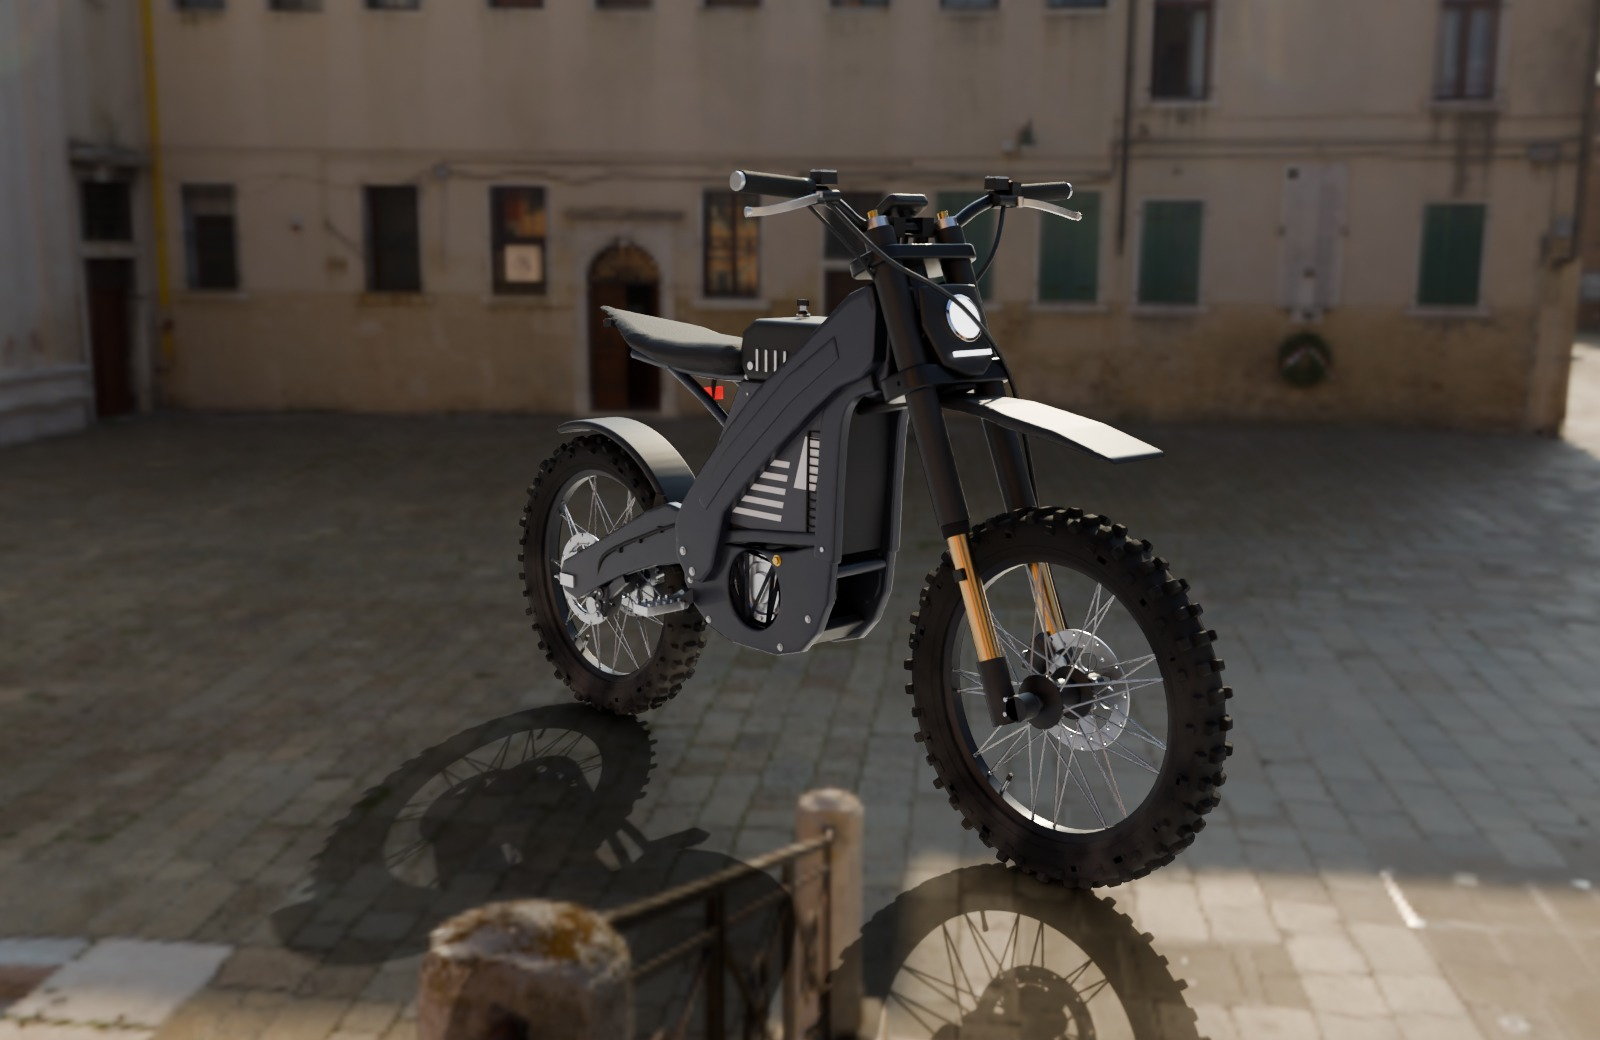
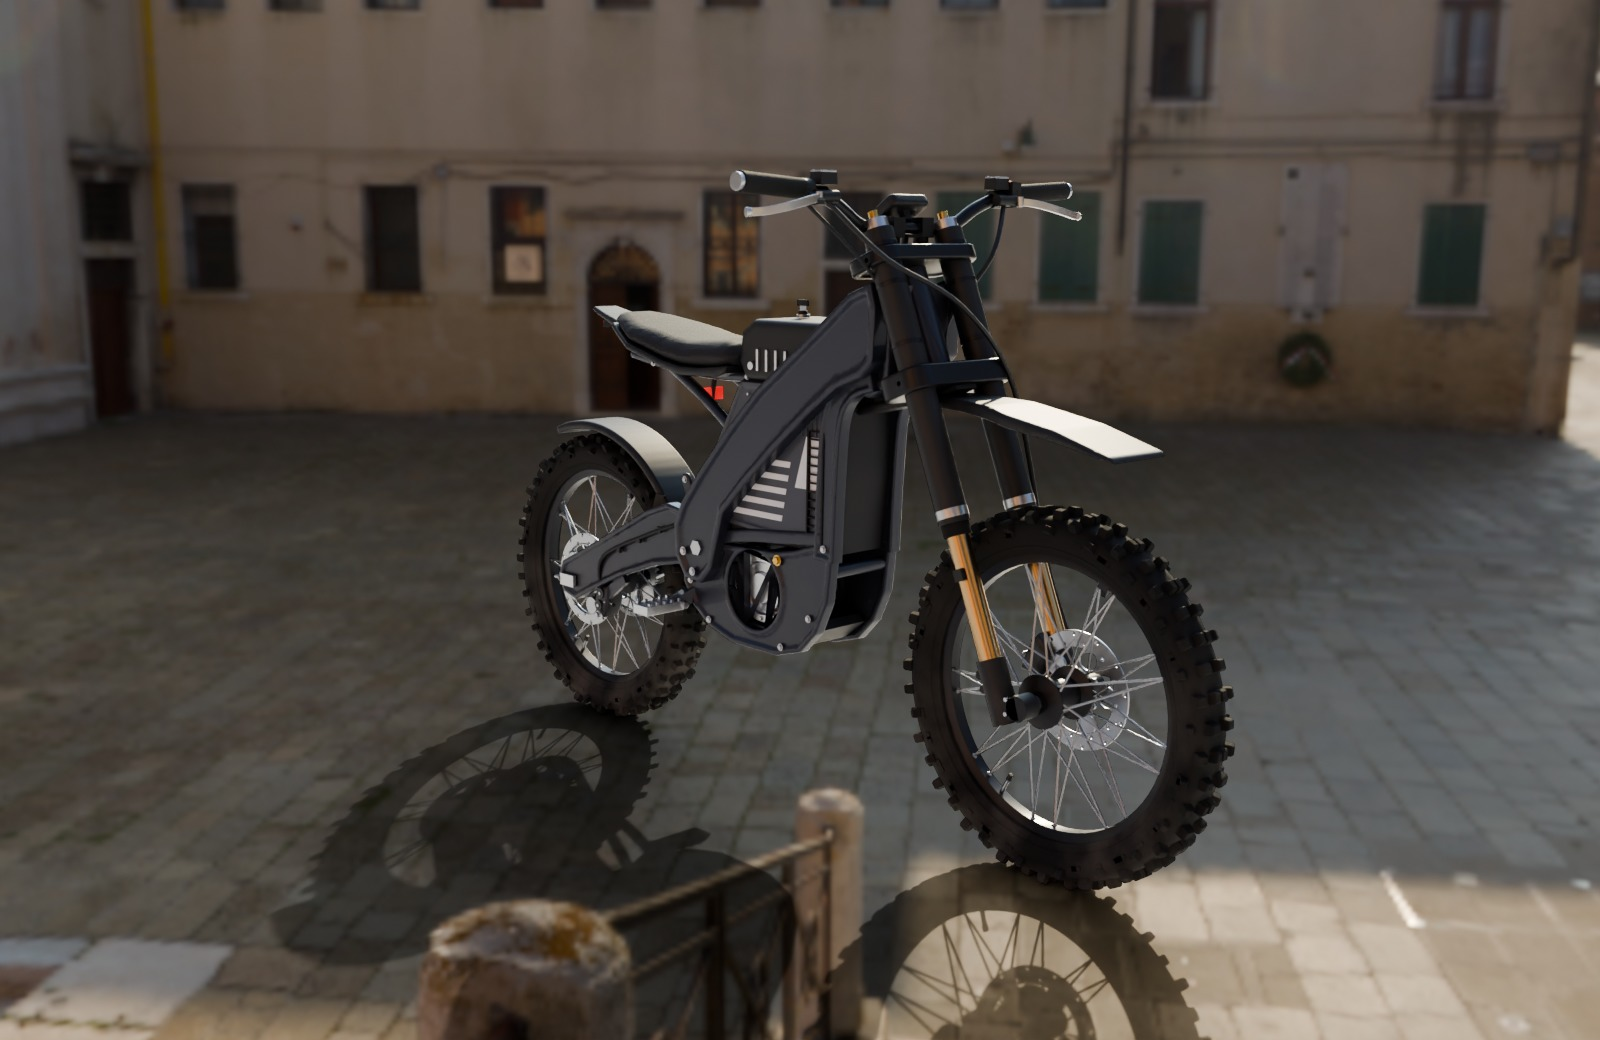
Add SurRonBlack: the owner's blacked-out Light Bee X
- new surron_black.py: black frame/covers/wheels/spokes, bronze levers,
  pegs, shock and chain, full-length ribbed battery covers, no graphics
- Sur-Ron geometry gains build options (graphics, ribbed covers) and
  lever/peg/shock material keys
- kick stand is now its own part (group Kickstand) pivoting at its hinge
- renders: park the bike on the kick stand with the matching lean, owner
  camera matching the reference photo, per-bike HDRI (dirt quarry)
- navy Sur-Ron renders without the headlight

Claude-Session: https://claude.ai/code/session_01TcZ8ov7SxXXTRenxyjV1hL

diff --git a/blender/surron.py b/blender/surron.py
@@ -20,6 +20,9 @@ NAME = "SurRon"
 REF = dict(size=720, scale=0.00283, center_px=(360, 360), mid_x=359, ground=580,
            camera_side=+1)  # photo shows the bike's left (+X) side
 
+# Build options; variants (e.g. surron_black.py) change these before building.
+STYLE = dict(graphics=True, full_ribs=False)
+
 S = REF["scale"]
 GROUND = REF["ground"]
 MIDX = REF["mid_x"]
@@ -87,7 +90,9 @@ def materials(B):
     B.material("alu", (0.70, 0.71, 0.73), metal=1.0, rough=0.3, aniso=0.5, bump=("brushed", 60, 0.02))
     B.material("chrome", (0.9, 0.9, 0.92), metal=1.0, rough=0.08)
     B.material("bronze", (0.60, 0.40, 0.20), metal=1.0, rough=0.22)
-    B.material("blue", (0.16, 0.13, 0.62), metal=0.9, rough=0.28)
+    B.material("shock", (0.16, 0.13, 0.62), metal=0.9, rough=0.28)
+    B.material("lever", (0.70, 0.71, 0.73), metal=1.0, rough=0.3)
+    B.material("peg", (0.70, 0.71, 0.73), metal=1.0, rough=0.35, dirt=0.2)
     B.material("spring", (0.03, 0.03, 0.033), metal=0.3, rough=0.5, dirt=0.15)
     B.material("chain", (0.33, 0.33, 0.35), metal=1.0, rough=0.4, dirt=0.35)
     B.material("caliper", (0.06, 0.06, 0.065), metal=0.6, rough=0.35, dirt=0.2)
@@ -231,11 +236,11 @@ def build_steering(B):
         for dx in (-0.013, 0.013):
             K.bolt(B.bm(G, "steel"), res + Vector((dx, 0.009, 0.0125)), (0, 0, 1), r=0.0022, h=0.0015, washer=False)
         piv = mc + Vector((s * 0.03, -0.032, -0.004))
-        K.bm_cyl(B.bm(G, "alu"), K.axis_matrix(piv, (0, 0, 1)), 0.0065, -0.009, 0.009, 10)
+        K.bm_cyl(B.bm(G, "lever"), K.axis_matrix(piv, (0, 0, 1)), 0.0065, -0.009, 0.009, 10)
         blade = K.catmull([piv, piv + Vector((s * 0.03, -0.014, -0.004)), piv + Vector((s * 0.08, -0.022, -0.014)),
                            piv + Vector((s * 0.125, -0.018, -0.022)), piv + Vector((s * 0.15, -0.01, -0.024))], 5)
-        K.bm_sweep_rect(B.bm(G, "alu"), blade, 0.013, 0.0065, up=(0, 0, 1))
-        K.bm_sweep(B.bm(G, "alu"), [blade[-1], blade[-1] + (blade[-1] - blade[-2]).normalized() * 0.008], 0.0075,
+        K.bm_sweep_rect(B.bm(G, "lever"), blade, 0.013, 0.0065, up=(0, 0, 1))
+        K.bm_sweep(B.bm(G, "lever"), [blade[-1], blade[-1] + (blade[-1] - blade[-2]).normalized() * 0.008], 0.0075,
                    segs=10)
         for dz in (-0.009, 0.009):  # clamp screws
             K.bolt(B.bm(G, "steel"), mc + Vector((0, 0.0155, dz)), (0, 1, 0), r=0.0025, h=0.002, washer=False)
@@ -356,11 +361,23 @@ def build_body(B):
     B.inflate(G, "battery", [L(batt)], 0.016, 0.075, 0.015)
     cover = [(300, 303), (386, 303), (402, 331), (426, 372), (431, 398), (306, 406), (301, 360)]
     B.inflate_pair(G, "panel", [L(cover)], 0.007, 0.005, 0.0025, 0.077, pocket=(0.008, 0.003, 0.004))
-    for s_ in (1, -1):  # moulded vertical ribs on the upper cover
-        for k in range(7):
-            x = 312 + k * 4.2
-            K.box_between(B.bm(G, "panel"), P3(x, 312, s_ * 0.0795), P3(x + 1.0, 334, s_ * 0.0795), 0.003, 0.0035,
-                          up=(1, 0, 0))
+    if STYLE["full_ribs"]:
+        # moulded vertical ribs across the whole cover (blacked-out version)
+        inner = [(306, 309), (382, 309), (397, 334), (420, 372), (424, 396), (311, 400), (307, 360)]
+        for k in range(17):
+            x = 310 + k * 6.6
+            seg = K.clip_line_to_polygon((x, 300), (x + 3, 412), inner, 160)
+            if seg:
+                a, b = seg
+                for s_ in (1, -1):
+                    K.box_between(B.bm(G, "panel"), P3(a[0], a[1], s_ * 0.0795), P3(b[0], b[1], s_ * 0.0795),
+                                  0.003, 0.004, up=(1, 0, 0))
+    else:
+        for s_ in (1, -1):  # moulded vertical ribs on the upper cover
+            for k in range(7):
+                x = 312 + k * 4.2
+                K.box_between(B.bm(G, "panel"), P3(x, 312, s_ * 0.0795), P3(x + 1.0, 334, s_ * 0.0795), 0.003,
+                              0.0035, up=(1, 0, 0))
     gfx = [[(305, 334), (322, 334), (333, 368), (313, 368)]]
     for k, y0 in enumerate([352, 361, 370, 379, 388]):
         x0 = 337 + k * 2
@@ -368,7 +385,7 @@ def build_body(B):
         gfx.append([(x0, y0), (x1, y0), (x1 + 3, y0 + 4), (x0 + 1, y0 + 4)])
     gfx.append([(392, 360), (418, 384), (414, 388), (388, 364)])
     gfx.append([(388, 372), (420, 398), (414, 401), (384, 376)])
-    for g in gfx:
+    for g in (gfx if STYLE["graphics"] else []):
         B.slab_pair(G, "graphic", [L(g)], 0.0008, 0.0794)
 
     # top cover over the controller
@@ -423,14 +440,14 @@ def build_body(B):
         perp = -perp
     K.bm_cyl(B.bm(G, "black"), K.axis_matrix(st, (1, 0, 0)), 0.013, -0.016, 0.016, 14)
     K.bm_tube(B.bm(G, "black"), st + d * 0.04, st + d * 0.48, 0.021, segs=18)
-    K.bm_tube(B.bm(G, "blue"), st + d * 0.03 + perp * 0.036, st + d * 0.40 + perp * 0.036, 0.016, segs=16)
-    K.box_between(B.bm(G, "blue"), st + d * 0.08, st + d * 0.08 + perp * 0.036, 0.018, 0.02, up=(1, 0, 0))
-    K.bm_tube(B.bm(G, "blue"), st + d * 0.24, st + d * 0.27, 0.036, segs=20)
+    K.bm_tube(B.bm(G, "shock"), st + d * 0.03 + perp * 0.036, st + d * 0.40 + perp * 0.036, 0.016, segs=16)
+    K.box_between(B.bm(G, "shock"), st + d * 0.08, st + d * 0.08 + perp * 0.036, 0.018, 0.02, up=(1, 0, 0))
+    K.bm_tube(B.bm(G, "shock"), st + d * 0.24, st + d * 0.27, 0.036, segs=20)
     K.bm_tube(B.bm(G, "chrome"), st + d * 0.46, st + d * 0.94, 0.0085, segs=12)
     K.bm_sweep(B.bm(G, "spring"), K.coil_points(st + d * 0.27, sb - d * 0.11, 0.031, 7.5), 0.0048, segs=8)
     K.bm_tube(B.bm(G, "black"), sb - d * 0.12, sb - d * 0.09, 0.034, segs=20)
     K.bm_cyl(B.bm(G, "black"), K.axis_matrix(sb, (1, 0, 0)), 0.012, -0.015, 0.015, 14)
-    K.bm_tube(B.bm(G, "blue"), st + d * 0.205, st + d * 0.235, 0.034, segs=20)       # lock ring
+    K.bm_tube(B.bm(G, "shock"), st + d * 0.205, st + d * 0.235, 0.034, segs=20)       # lock ring
     K.bm_tube(B.bm(G, "alu"), st + d * 0.40 + perp * 0.036, st + d * 0.43 + perp * 0.036, 0.012, segs=12)
     K.bm_tube(B.bm(G, "rubber"), st + d * 0.50, st + d * 0.56, 0.013, segs=12)       # bump stop
     K.box_between(B.bm(G, "black"), sb - d * 0.09, sb, 0.034, 0.024, up=(0, 1, 0))  # clevis
@@ -486,10 +503,10 @@ def build_body(B):
     # foot pegs with teeth
     for s in (1, -1):
         c = P3(447, 463, s * 0.15)
-        K.bm_box(B.bm(G, "alu"), Matrix.Translation(c), 0.09, 0.045, 0.018)
+        K.bm_box(B.bm(G, "peg"), Matrix.Translation(c), 0.09, 0.045, 0.018)
         for k in range(5):
             for dy in (-0.019, 0.019):
-                K.bm_box(B.bm(G, "alu"), Matrix.Translation(c + Vector((s * (-0.036 + 0.018 * k), dy, 0.011))),
+                K.bm_box(B.bm(G, "peg"), Matrix.Translation(c + Vector((s * (-0.036 + 0.018 * k), dy, 0.011))),
                          0.006, 0.006, 0.008)
         K.box_between(B.bm(G, "frame"), P3(441, 455, s * 0.07), c - Vector((s * 0.04, 0, 0)), 0.03, 0.026)
         hinge = c - Vector((s * 0.047, 0, 0))
@@ -497,10 +514,18 @@ def build_body(B):
         K.bm_sweep(B.bm(G, "spring"), K.coil_points(hinge + Vector((0, -0.02, 0)), hinge + Vector((0, 0.02, 0)),
                                                     0.009, 4, 10), 0.0015, segs=5)
 
-    # kick stand (left side, folded)
-    K.bm_sweep(B.bm(G, "black"), K.catmull([P3(440, 457, 0.095), P3(478, 463, 0.11), P3(515, 468, 0.116)], 4),
-               0.0085, segs=8)
-    K.bm_box(B.bm(G, "black"), Matrix.Translation(P3(517, 469, 0.116)), 0.03, 0.02, 0.008)
+    # kick stand (left side): its own part pivoting at the hinge so it can swing down
+    KG = "Kickstand"
+    hinge = P3(442, 462, 0.10)
+    B.pivot(KG, hinge)
+    K.bm_cyl(B.bm(G, "frame"), K.axis_matrix(hinge - Vector((0.012, 0, 0)), (1, 0, 0)), 0.014, -0.006, 0.006, 16)
+    K.bm_cyl(B.bm(KG, "black"), K.axis_matrix(hinge, (1, 0, 0)), 0.012, -0.008, 0.008, 16)
+    leg = K.catmull([hinge, P3(470, 466, 0.106), P3(510, 470, 0.114), P3(549, 472, 0.12)], 4)
+    K.bm_sweep(B.bm(KG, "black"), leg, 0.0095, segs=10, radii=[K.lerp(0.0105, 0.008, i / (len(leg) - 1))
+                                                               for i in range(len(leg))])
+    K.bm_box(B.bm(KG, "black"), K.axis_matrix(P3(551, 472, 0.12), (0, 0, -1), hint=(0, 1, 0)), 0.034, 0.024, 0.008)
+    K.bm_sweep(B.bm(KG, "spring"), K.coil_points(hinge + Vector((0.012, 0.02, -0.004)), P3(470, 463, 0.09), 0.005,
+                                                  6, 8), 0.0013, segs=5)
     return rp_front
 
 
@@ -526,10 +551,11 @@ def build_swingarm(B, rp_front, rp_rear):
         K.bm_box(B.bm(G, "alu"), Matrix.Translation(REAR_AXLE + Vector((s * 0.096, 0.02, 0))), 0.008, 0.05, 0.026)
     B.slab_pair(G, "frame", [K.stadium2d(P(452, 400), P(452, 414), 0.016)], 0.006, 0.022)
     # stripe graphics on the left arm
-    for k in range(3):
+    for k in (range(3) if STYLE["graphics"] else []):
         B.slab(G, "graphic", [L(K.offset_polyline2d([(447, 404 + 5 * k), (505, 429 + 5 * k)], 1.8))],
                0.0008, x=0.0952)
-    B.slab(G, "graphic", [L([(528, 446), (560, 458), (557, 466), (525, 454)])], 0.0008, x=0.0952)
+    if STYLE["graphics"]:
+        B.slab(G, "graphic", [L([(528, 446), (560, 458), (557, 466), (525, 454)])], 0.0008, x=0.0952)
     # chain slider
     B.inflate(G, "black", [L([(440, 398), (470, 397), (500, 410), (496, 414), (468, 403), (440, 404)])],
               0.006, 0.015, 0.005, c=0.08)
@@ -568,7 +594,9 @@ def build_swingarm(B, rp_front, rp_rear):
                   pitch=0.0127)
 
 
-def build(B):
+def build(B, style=None):
+    if style:
+        STYLE.update(style)
     materials(B)
     rp_rear = build_wheels(B)
     build_steering(B)

diff --git a/blender/build.py b/blender/build.py
@@ -11,6 +11,7 @@ or with the `bpy` Python module:
 Outputs go to ../models/ and ../renders/ relative to this file.
 """
 
+import math
 import os
 import sys
 
@@ -25,7 +26,7 @@ import importlib  # noqa: E402
 
 import bikekit as K  # noqa: E402
 
-BIKES = ["surron", "varg"]
+BIKES = ["surron", "surron_black", "varg"]
 HDRI_ROT = 200.0   # backdrop rotation that puts the sunny square behind the hero camera
 
 
@@ -60,18 +61,22 @@ def build_one(name, opts):
                  glb_path=os.path.join(ROOT, "models", f"{mod.NAME}.glb"))
 
     # photographic scene: HDR backdrop + shadow catcher (kept in the .blend for re-rendering)
-    hdri = os.path.join(HERE, "assets", "san_giuseppe_bridge_2k.hdr")
+    scene = getattr(mod, "SCENE", {})
+    hdri = os.path.join(HERE, "assets", scene.get("hdri", "san_giuseppe_bridge_2k.hdr"))
+    hdri_rot = scene.get("rot", HDRI_ROT)
     if os.path.exists(hdri):
-        K.setup_hdri(hdri, HDRI_ROT, 1.0, samples=opts["samples"])
+        K.setup_hdri(hdri, hdri_rot, 1.0, samples=opts["samples"])
     else:
         K.setup_outdoor(samples=opts["samples"])
-    k = 1.0 if mod.NAME == "SurRon" else 1.12   # bigger bike -> step back a little
+    k = 1.12 if mod.NAME == "Varg" else 1.0   # bigger bike -> step back a little
     tgt = Vector((0, 0.0, 0.52 * k))
     side = mod.REF["camera_side"]
     cams = {
         "hero": K.camera("Cam_Hero", (2.35 * k, -2.05 * k, 0.9), tgt, lens=40, fstop=4.0),
         "front34": K.camera("Cam_Front34", (-1.95 * k, -2.15 * k, 1.05), tgt, lens=35, fstop=4.0),
         "rear34": K.camera("Cam_Rear34", (2.25 * k, 2.5 * k, 0.78), tgt, lens=38, fstop=4.0),
+        "owner": K.camera("Cam_Owner", (-0.95 * k, -1.45 * k, 0.95), Vector((0.0, 0.05, 0.5 * k)), lens=24,
+                          fstop=5.6),
         "detail": K.camera("Cam_Detail", (1.25 * k, -0.25 * k, 0.75), Vector((0, 0.05, 0.5 * k)), lens=40,
                            fstop=2.8),
         "side": K.camera("Cam_Side", (7.5 * k * side, 0.0, 0.62), (0, 0.0, 0.55 * k), lens=85),
@@ -98,12 +103,15 @@ def build_one(name, opts):
                                     compress=True)
 
     if opts["render"]:
+        lean = pose_parked(B.objects)
+        if lean:
+            print(f"parked on the kick stand, leaning {lean:.1f} deg")
         outs = []
         if not opts["only_check"]:
             for key, res in [("hero", (1600, 1040)), ("side", (1600, 1040)), ("front34", (1600, 1040)),
-                             ("rear34", (1600, 1040)), ("detail", (1600, 1040))]:
+                             ("rear34", (1600, 1040)), ("detail", (1600, 1040)), ("owner", (1200, 1600))]:
                 p = os.path.join(ROOT, "renders", f"{mod.NAME}_{key}.jpg")
-                K.aim_hdri(cams[key], HDRI_ROT)
+                K.aim_hdri(cams[key], hdri_rot)
                 K.render(cams[key], p, res)
                 outs.append(p)
         if opts["check"]:
@@ -182,6 +190,29 @@ def write_roblox_colors():
     os.makedirs(os.path.join(ROOT, "roblox"), exist_ok=True)
     with open(os.path.join(ROOT, "roblox", "BikeColors.lua"), "w") as f:
         f.write("\n".join(lines))
+
+
+def pose_parked(objs, deploy=(-100.0, -25.0, 0.0), max_lean=14.0):
+    """For renders only: swing the kick stand down and lean the bike onto it
+    (the saved .blend / FBX keep the upright riding pose)."""
+    ks = [o for o in objs if o.get("group") == "Kickstand"]
+    if not ks:
+        return 0.0
+    root = bpy.data.objects.new("BikeRoot", None)
+    bpy.context.scene.collection.objects.link(root)
+    for o in objs:
+        o.parent = root
+    for o in ks:
+        o.rotation_euler = tuple(math.radians(a) for a in deploy)
+    lean = 0.0
+    for i in range(0, int(max_lean * 4) + 1):
+        lean = i * 0.25
+        root.rotation_euler = (0.0, math.radians(lean), 0.0)
+        bpy.context.view_layer.update()
+        mz = min((o.matrix_world @ v.co).z for o in ks for v in o.data.vertices)
+        if mz <= 0.002:
+            break
+    return lean
 
 
 def main():

diff --git a/blender/surron_black.py b/blender/surron_black.py
@@ -1,0 +1,77 @@
+"""
+Blacked-out Sur-Ron Light Bee X, matched to the owner's photo of their bike:
+
+- satin black forged frame, swingarm, sub-frame and ribbed battery covers
+  (no stripe graphics)
+- black rims, hubs and spokes; silver front rotor and axle nuts
+- bronze-gold brake levers, foot pegs, shock body and chain
+- black upside-down fork with silver top caps, long front fender, rear hugger
+- no headlight; the kick stand is a separate part that swings down for the
+  parked renders
+
+Geometry comes from surron.py (same measured proportions); only the build
+options and the colour/finish palette differ.
+"""
+
+import surron as base
+
+NAME = "SurRonBlack"
+REF = base.REF
+STYLE = dict(graphics=False, full_ribs=True)
+# renders: an open dirt quarry instead of the city square
+SCENE = dict(hdri="quarry_01_1k.hdr", rot=290.0)
+
+BRONZE = (0.50, 0.33, 0.13)
+
+
+def materials(B):
+    # satin / textured blacks, each slightly different like the real bike
+    B.material("frame", (0.020, 0.020, 0.022), metal=0.35, rough=0.48, coat=0.15, bump=("noise", 900, 0.07),
+               dirt=0.18)
+    B.material("panel", (0.024, 0.024, 0.027), rough=0.55, bump=("noise", 700, 0.05), dirt=0.1)
+    B.material("black", (0.016, 0.016, 0.018), rough=0.5, bump=("noise", 800, 0.06), dirt=0.2)
+    B.material("battery", (0.03, 0.03, 0.034), rough=0.6, dirt=0.15)
+    B.material("seat", (0.02, 0.02, 0.022), rough=0.72, bump=("grip", 260, 0.4))
+    B.material("grip", (0.02, 0.02, 0.02), rough=0.8, bump=("grip", 500, 0.35))
+    B.material("rubber", (0.016, 0.016, 0.016), rough=0.85, spec=0.3, bump=("rubber", 300, 0.12), dirt=0.28)
+    B.material("cable", (0.012, 0.012, 0.013), rough=0.55)
+    B.material("mesh", (0.02, 0.02, 0.022), metal=0.6, rough=0.45, dirt=0.15)
+    B.material("rim", (0.018, 0.018, 0.02), metal=0.6, rough=0.32, dirt=0.15)
+    B.material("hub", (0.02, 0.02, 0.022), metal=0.6, rough=0.35, dirt=0.15)
+    B.material("spoke", (0.03, 0.03, 0.032), metal=0.7, rough=0.3, dirt=0.1)
+    B.material("caliper", (0.03, 0.03, 0.033), metal=0.6, rough=0.35, dirt=0.2)
+    B.material("bronze", (0.025, 0.025, 0.028), metal=0.8, rough=0.18)      # black DLC fork stanchions
+    B.material("spring", (0.025, 0.025, 0.028), metal=0.3, rough=0.5, dirt=0.15)
+    # bare metal
+    B.material("steel", (0.55, 0.56, 0.58), metal=1.0, rough=0.3, dirt=0.12)
+    B.material("alu", (0.66, 0.67, 0.69), metal=1.0, rough=0.3, aniso=0.5, bump=("brushed", 60, 0.02))
+    B.material("chrome", (0.9, 0.9, 0.92), metal=1.0, rough=0.08)
+    # bronze-gold anodised accents
+    B.material("gold", BRONZE, metal=1.0, rough=0.28)
+    B.material("lever", BRONZE, metal=1.0, rough=0.3)
+    B.material("peg", BRONZE, metal=1.0, rough=0.35, dirt=0.2)
+    B.material("shock", (0.55, 0.37, 0.15), metal=1.0, rough=0.25)
+    B.material("chain", (0.42, 0.31, 0.15), metal=1.0, rough=0.4, dirt=0.35)
+    # lights / misc
+    B.material("graphic", (0.80, 0.82, 0.86), rough=0.4)
+    B.material("lens", (0.92, 0.94, 1.0), rough=0.05, emit=2.0)
+    B.material("redlight", (0.75, 0.02, 0.02), rough=0.2, emit=1.0)
+    B.material("screen", (0.02, 0.05, 0.08), metal=0.2, rough=0.05)
+    B.material("glass", (0.35, 0.38, 0.42), rough=0.02, emit=0.12)
+    B.material("drl", (0.85, 0.9, 1.0), rough=0.1, emit=0.35)
+
+
+def build(B):
+    saved_style, saved_materials = dict(base.STYLE), base.materials
+    base.STYLE.update(STYLE)
+    base.materials = materials          # geometry functions look materials up by key
+    try:
+        base.build(B)
+    finally:
+        base.STYLE.clear()
+        base.STYLE.update(saved_style)
+        base.materials = saved_materials
+
+
+def rig_points():
+    return base.rig_points()
